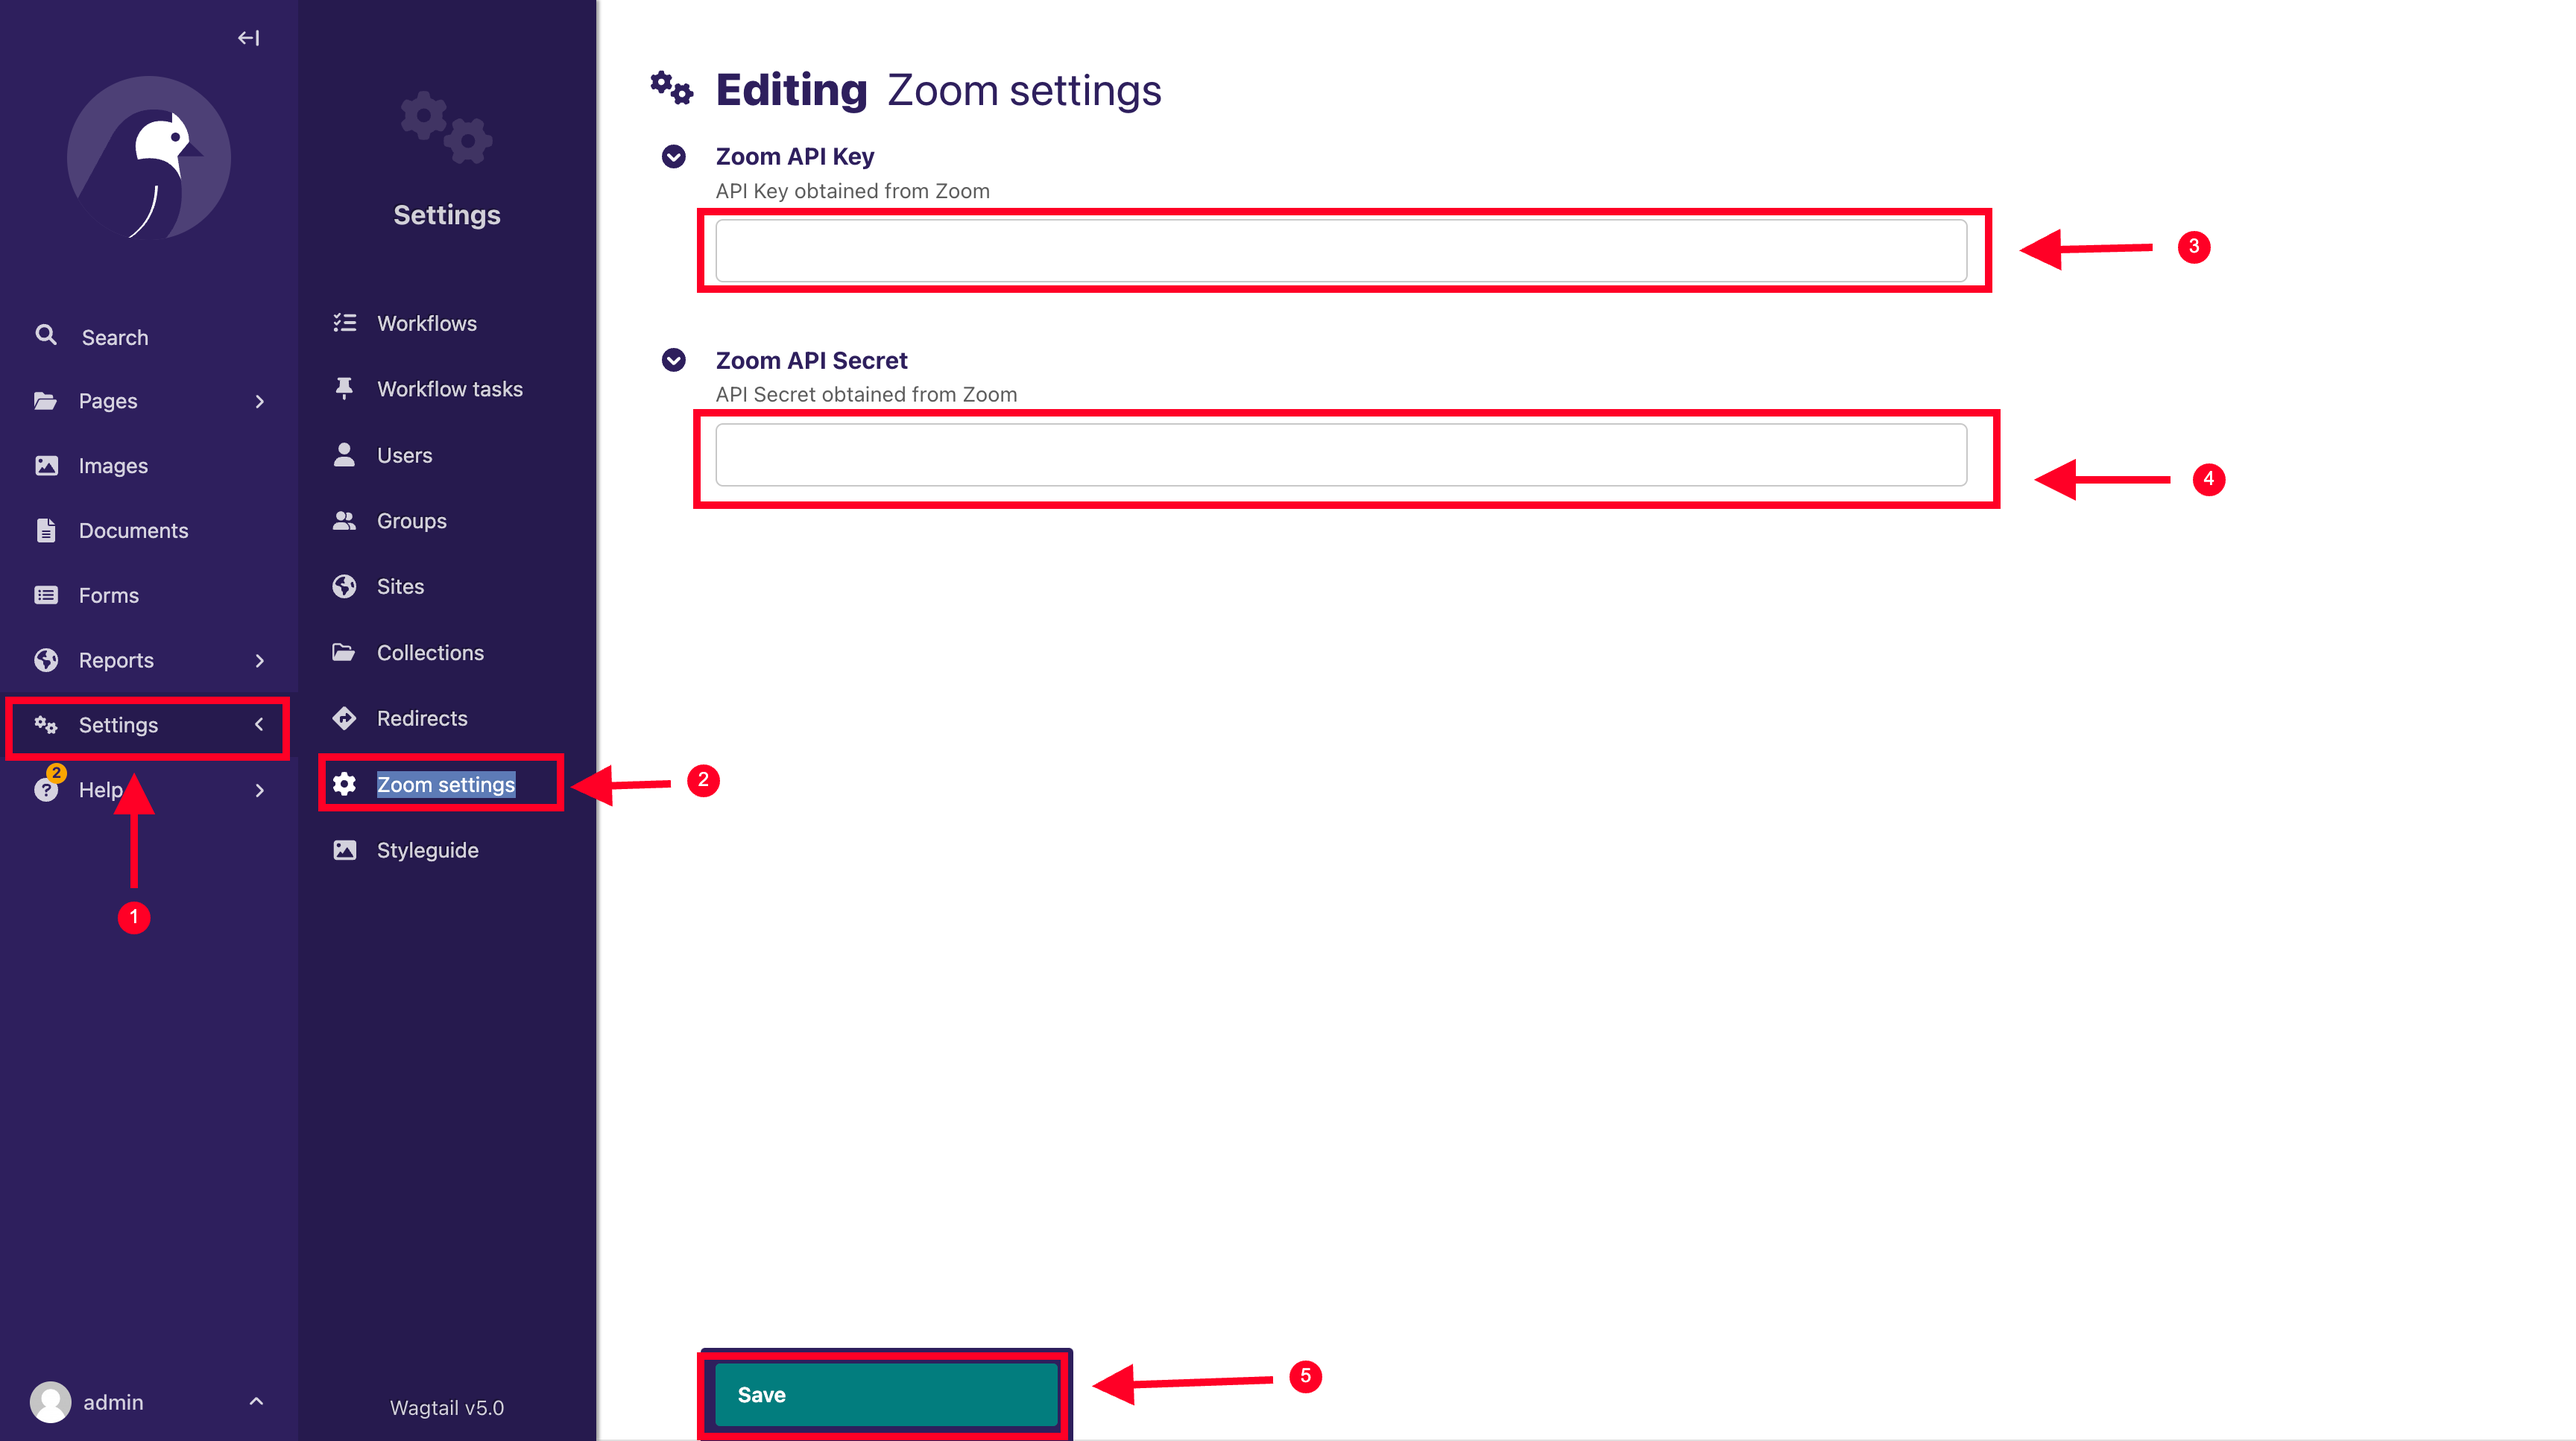
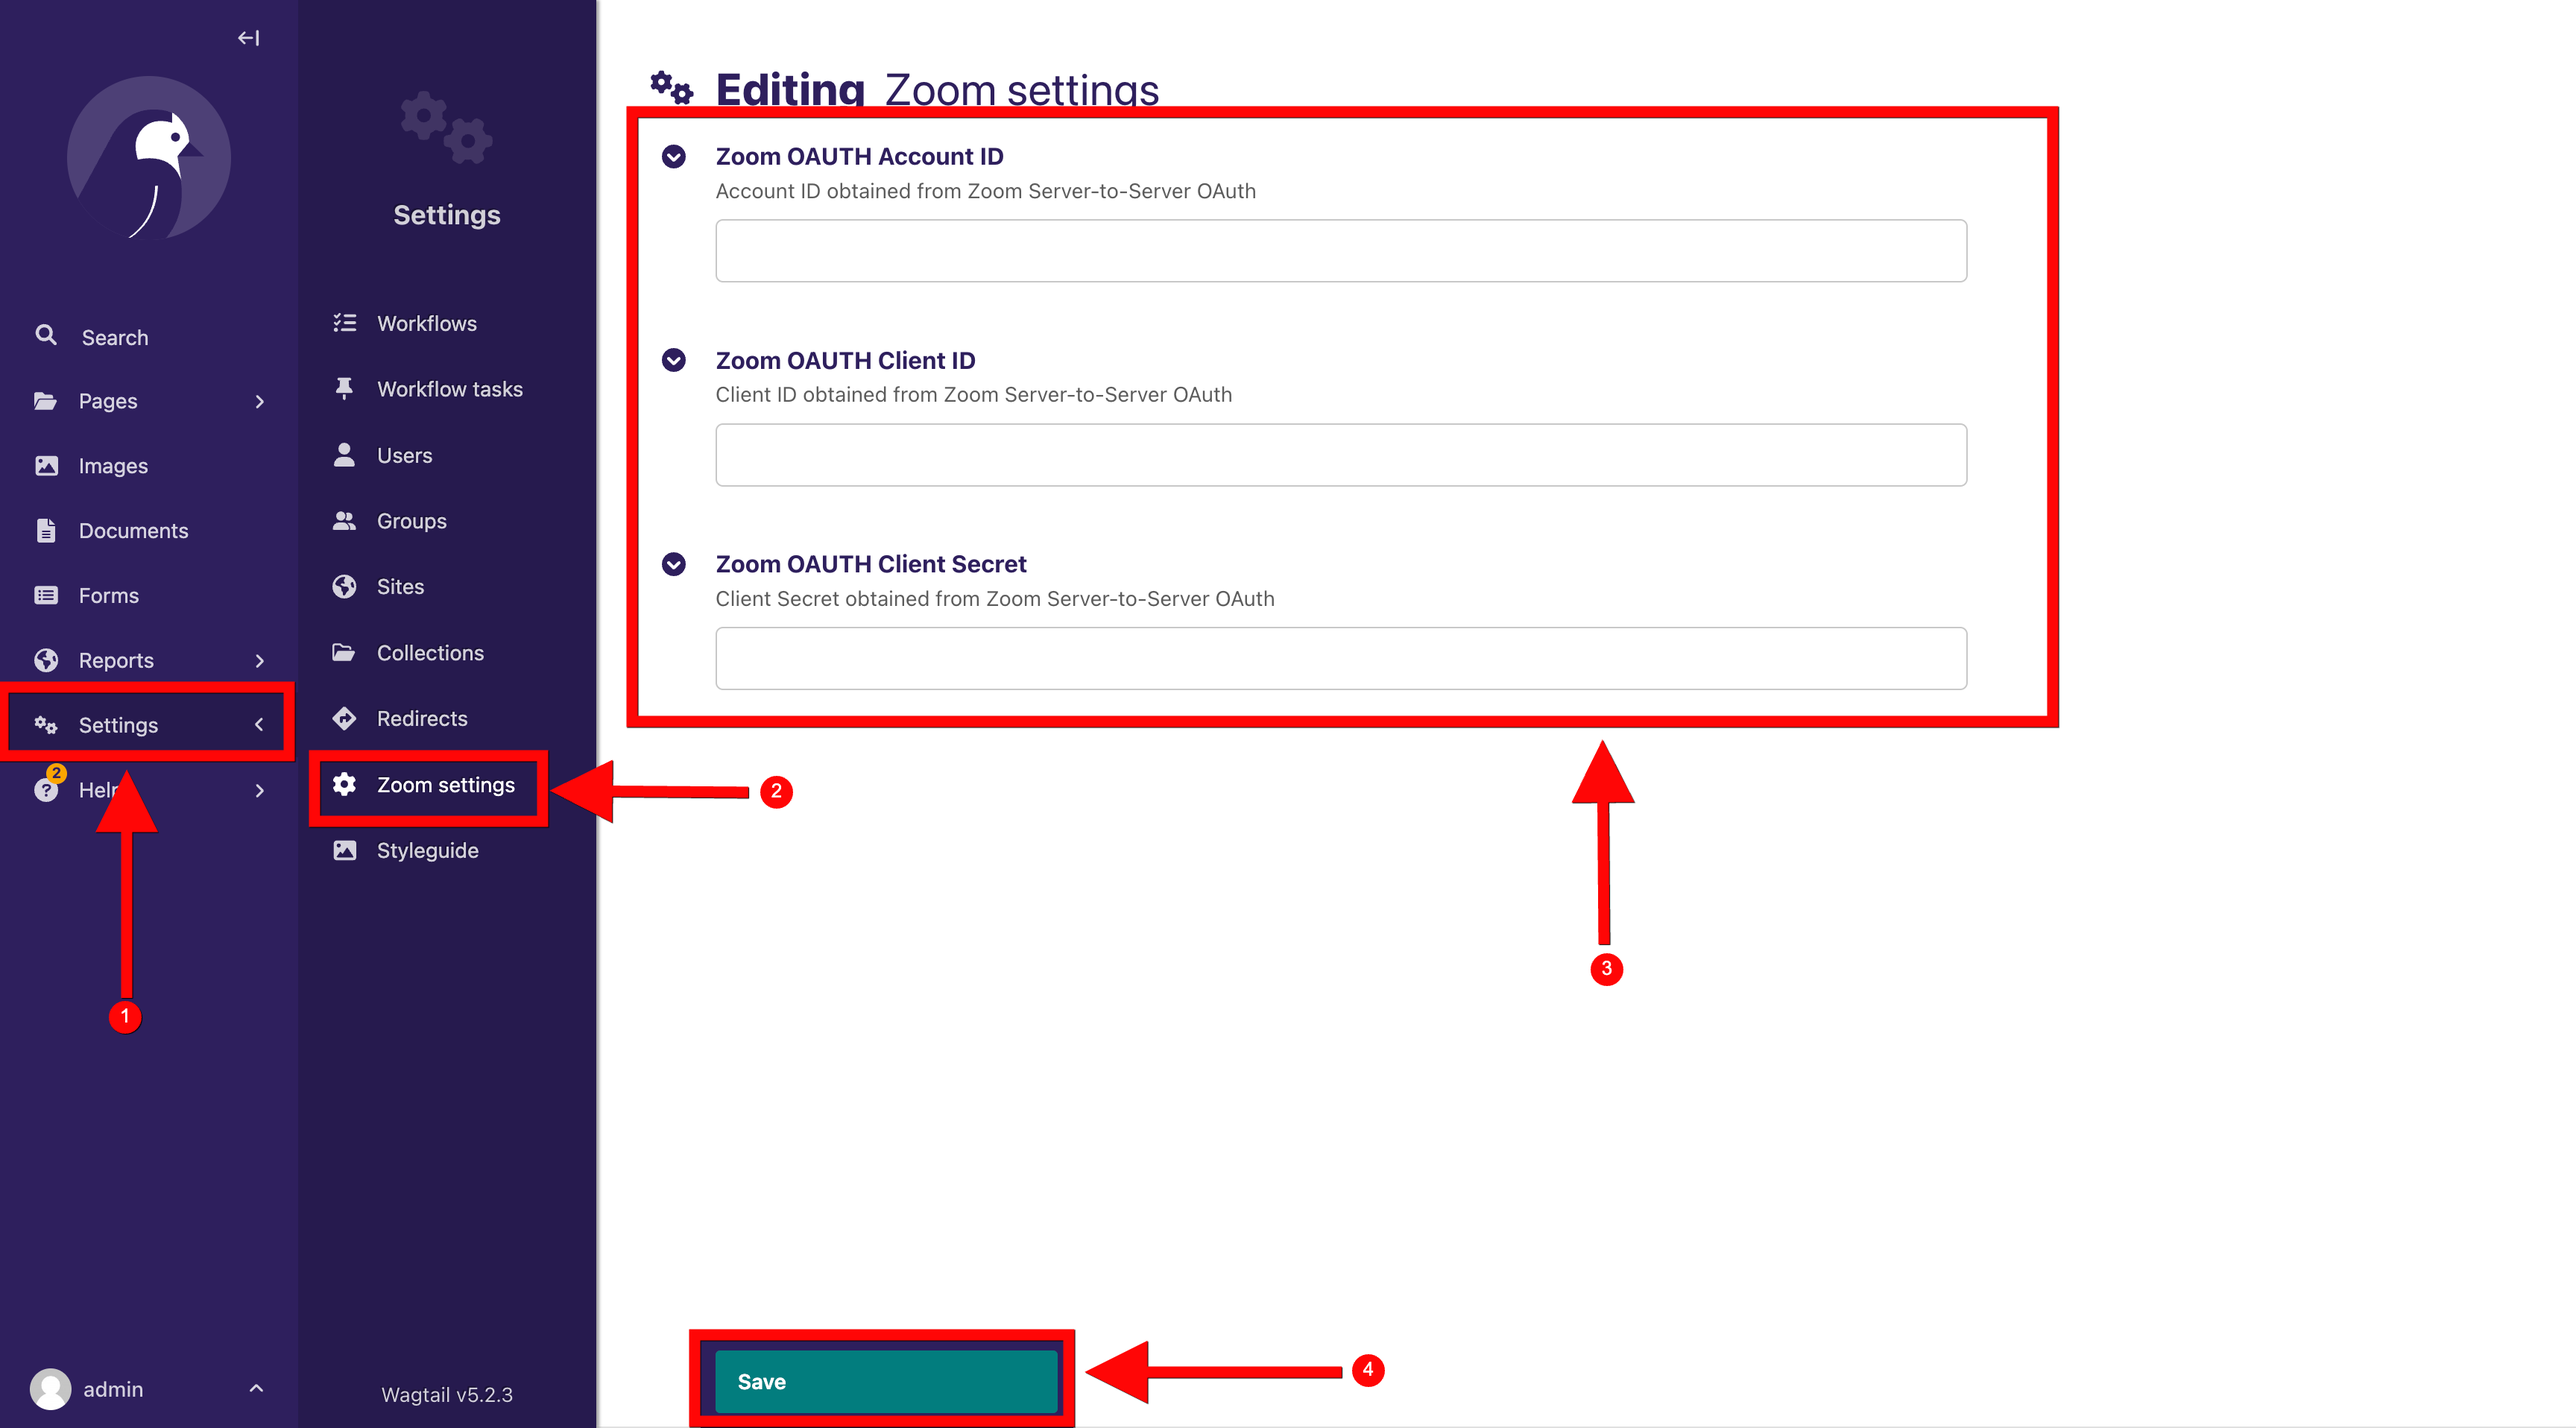
Update to use server-server oath authentication

diff --git a/wagtailzoom/templates/wagtailzoom/widgets/zoom_event_select_widget.html b/wagtailzoom/templates/wagtailzoom/widgets/zoom_event_select_widget.html
@@ -7,7 +7,7 @@
     {% for event in widget.selectable_events %}
         {% if event.id == widget.stored_event_id %} selected{% endif %}
         <option value="{{ event.id }}" {% if event.id|stringformat:"i" == widget.stored_event_id %} selected{% endif %}>
-            {{ event.topic }}
+            {{ event.event_type_label }} - {{ event.topic }}
         </option>
     {% endfor %}
 </select>

diff --git a/wagtailzoom/api.py b/wagtailzoom/api.py
@@ -1,12 +1,9 @@
-from datetime import datetime, timedelta
-import iso8601
+import base64
 
-import jwt
+import iso8601
 import requests
 
 from wagtailzoom.errors import ZoomApiCredentialsError
-
-JWT_EXP_DELTA_SECONDS = 60 * 2  # 2 minutes
 
 
 def get_created_time(d):
@@ -14,29 +11,29 @@ def get_created_time(d):
 
 
 class ZoomApi:
-    def __init__(self, api_key, api_secret):
+    def __init__(self, oauth_account_id, oauth_client_id, oauth_client_secret):
         self.is_active = False
         self.headers = {}
         self.base_url = "https://api.zoom.us/v2"
 
-        if not api_key:
-            raise ZoomApiCredentialsError(
-                "No Zoom API Key provided. Please set API Key from Zoom Settings under settings")
+        if not oauth_account_id and not oauth_client_id and not oauth_client_secret:
+            raise ZoomApiCredentialsError("Missing Zoom API OAUTH credentials")
 
-        if not api_secret:
-            raise ZoomApiCredentialsError(
-                "No Zoom API Secret provided. Please set API Secret from Zoom Settings under settings")
+        self.init_api(oauth_account_id, oauth_client_id, oauth_client_secret)
 
-        self.init_api(api_key, api_secret)
+    def init_api(self, oauth_account_id, oauth_client_id, oauth_client_secret):
+        auth_str = f"{oauth_client_id}:{oauth_client_secret}"
+        encoded_auth_str = base64.b64encode(auth_str.encode()).decode('utf-8')
 
-    def init_api(self, api_key, api_secret):
-        payload = {
-            'iss': api_key,
-            'exp': datetime.utcnow() + timedelta(seconds=JWT_EXP_DELTA_SECONDS)
-        }
+        r = requests.post(f'https://zoom.us/oauth/token?grant_type=account_credentials&account_id={oauth_account_id}',
+                          headers={'Authorization': f'Basic {encoded_auth_str}'})
 
-        jwt_token = jwt.encode(payload, api_secret)
-        self.headers["Authorization"] = "Bearer {}".format(jwt_token)
+        r.raise_for_status()
+
+        res = r.json()
+        access_token = res.get("access_token")
+
+        self.headers["Authorization"] = f"Bearer {access_token}"
 
         self.is_active = True
 
@@ -68,6 +65,7 @@ class ZoomApi:
 
             for index, meeting in enumerate(meetings):
                 meetings[index]["event_type"] = "meeting"
+                meetings[index]["event_type_label"] = "Meeting"
 
         return meetings
 
@@ -86,6 +84,7 @@ class ZoomApi:
 
             for index, webinar in enumerate(webinars):
                 webinars[index]["event_type"] = "webinar"
+                webinars[index]["event_type_label"] = "Webinar"
 
         return webinars
 

diff --git a/wagtailzoom/models.py b/wagtailzoom/models.py
@@ -15,24 +15,32 @@ from .widgets import ZoomEventSelectWidget
 
 @register_setting
 class ZoomSettings(BaseSiteSetting):
-    api_key = models.CharField(
+    oauth_account_id = models.CharField(
         max_length=256,
         null=True,
         blank=True,
-        verbose_name=_("Zoom API Key"),
-        help_text=_("API Key obtained from Zoom"),
+        verbose_name=_("Zoom OAUTH Account ID"),
+        help_text=_("Account ID obtained from Zoom Server-to-Server OAuth"),
     )
-    api_secret = models.CharField(
+    oauth_client_id = models.CharField(
         max_length=256,
         null=True,
         blank=True,
-        verbose_name=_("Zoom API Secret"),
-        help_text=_("API Secret obtained from Zoom"),
+        verbose_name=_("Zoom OAUTH Client ID"),
+        help_text=_("Client ID obtained from Zoom Server-to-Server OAuth"),
+    )
+    oauth_client_secret = models.CharField(
+        max_length=256,
+        null=True,
+        blank=True,
+        verbose_name=_("Zoom OAUTH Client Secret"),
+        help_text=_("Client Secret obtained from Zoom Server-to-Server OAuth"),
     )
 
     panels = [
-        FieldPanel("api_key"),
-        FieldPanel("api_secret"),
+        FieldPanel("oauth_account_id"),
+        FieldPanel("oauth_client_id"),
+        FieldPanel("oauth_client_secret"),
     ]
 
 
@@ -111,7 +119,8 @@ class AbstractZoomIntegrationForm(AbstractForm):
         if self.zoom_event_id and self.zoom_merge_fields:
             try:
                 zoom_settings = ZoomSettings.for_request(request)
-                zoom = ZoomApi(api_key=zoom_settings.api_key, api_secret=zoom_settings.api_secret)
+                zoom = ZoomApi(zoom_settings.oauth_account_id, zoom_settings.oauth_client_id,
+                               zoom_settings.oauth_client_secret)
 
                 rendered_dictionary = self.render_zoom_dictionary(
                     self.format_zoom_form_submission(kwargs['form']),

diff --git a/wagtailzoom/migrations/0002_remove_zoomsettings_api_key_and_more.py b/wagtailzoom/migrations/0002_remove_zoomsettings_api_key_and_more.py
@@ -1,0 +1,36 @@
+# Generated by Django 4.2.1 on 2024-04-19 11:18
+
+from django.db import migrations, models
+
+
+class Migration(migrations.Migration):
+
+    dependencies = [
+        ('wagtailzoom', '0001_initial'),
+    ]
+
+    operations = [
+        migrations.RemoveField(
+            model_name='zoomsettings',
+            name='api_key',
+        ),
+        migrations.RemoveField(
+            model_name='zoomsettings',
+            name='api_secret',
+        ),
+        migrations.AddField(
+            model_name='zoomsettings',
+            name='oauth_account_id',
+            field=models.CharField(blank=True, help_text='Account ID obtained from Zoom Server-to-Server OAuth', max_length=256, null=True, verbose_name='Zoom OAUTH Account ID'),
+        ),
+        migrations.AddField(
+            model_name='zoomsettings',
+            name='oauth_client_id',
+            field=models.CharField(blank=True, help_text='Client ID obtained from Zoom Server-to-Server OAuth', max_length=256, null=True, verbose_name='Zoom OAUTH Client ID'),
+        ),
+        migrations.AddField(
+            model_name='zoomsettings',
+            name='oauth_client_secret',
+            field=models.CharField(blank=True, help_text='Client Secret obtained from Zoom Server-to-Server OAuth', max_length=256, null=True, verbose_name='Zoom OAUTH Client Secret'),
+        ),
+    ]

diff --git a/wagtailzoom/views.py b/wagtailzoom/views.py
@@ -32,7 +32,8 @@ def zoom_integration_view(request, page_id):
         if event_id:
             try:
                 zoom_settings = ZoomSettings.for_request(request)
-                zoom_api = ZoomApi(api_key=zoom_settings.api_key, api_secret=zoom_settings.api_secret)
+                zoom_api = ZoomApi(zoom_settings.oauth_account_id, zoom_settings.oauth_client_id,
+                                   zoom_settings.oauth_client_secret)
 
                 if event_type == "meeting":
                     zoom_event = zoom_api.get_meeting(event_id)

diff --git a/wagtailzoom/widgets.py b/wagtailzoom/widgets.py
@@ -79,8 +79,8 @@ class ZoomEventSelectWidget(Input):
         current_site = Site.objects.get(is_default_site=True)
 
         zoom_settings = ZoomSettings.for_site(current_site)
-
-        api = ZoomApi(api_key=zoom_settings.api_key, api_secret=zoom_settings.api_secret)
+        api = ZoomApi(zoom_settings.oauth_account_id, zoom_settings.oauth_client_id,
+                      zoom_settings.oauth_client_secret)
         events = api.get_events()
 
         return events

diff --git a/README.md b/README.md
@@ -45,40 +45,60 @@ The steps below explain how to configure the Zoom settings, as shown on the scre
 
 1. Click on Settings
 2. Select Zoom Settings
-3. Add the Zoom API Key. See next section on how to obtain the API Key.
-4. Add the Zoom API Secret. See next section on how to obtain the API Secret.
+3. Add the Zoom OAUTH Account ID, OAUTH Client ID and OAUTH Client Secret . See next section on how to create and obtain
+   these credentials from Zoom.
 5. Save
 
-### Obtaining Zoom API Key and API Secret
+### Create a Server-to-Server OAuth app
 
-`Note`: The Zoom Account user that generates the API credentials should have the permissions to:
+The account administrator or a developer with permissions to create server-to-server OAuth apps can create these apps in
+an account.
 
-- Read and write meetings
-- Read and write webinars
+#### Prerequisites
 
-First, log into [marketplace.zoom.us](https://marketplace.zoom.us)
+- [A Zoom account](https://support.zoom.us/hc/en-us/articles/360034967471-Getting-started-guide-for-new-users)
+- [Permissions to view and edit server-to-server OAuth apps](https://developers.zoom.us/docs/internal-apps/#enable-the-server-to-server-oauth-role)
+- [Permissions for scopes that you will add to the app](https://developers.zoom.us/docs/internal-apps/#assign-permissions-to-access-scopes)
 
-![Create Zoom JWT App](screenshots/create_zoom_jwt_app.png)
+#### Steps to create a Server-to-Server OAuth app
 
-After logging into [marketplace.zoom.us](https://marketplace.zoom.us), the interface will appear similar to above
-screenshot
+1. Go to the Zoom App Marketplace. Click Develop in the dropdown menu in the top-right corner of the page and select
+   Build Server-to-Server App.
 
-Follow the steps below to create a JWT app, to get the API credentials:
+2. Add a name for your app and click Create.
 
-1. Go to the 'Develop' dropdown button right next to the manage button,
-2. Click 'Build App'
-3. On the 'Choose your app' type page, click `Create` from within the JWT box
+![Create Server-to-Server OAuth App](screenshots/create_app.webp)
 
-- A modal will appear to name your app — name your app and proceed.
+3. **App credentials**: View your account ID, client ID and client secret. You'll use these credentials to authenticate
+   with Zoom.
+4. **Information:** Add information about your app, such as a short description, company name, and developer contact
+   information (name and email address required for activation).
+5. **Feature:** Toggle whether you’d like to enable event subscriptions. If enabled, choose the event subscriptions
+   you'd like to use. See Using Zoom Webhooks for details.
+6. **Scopes:** Scopes define the API methods this app is allowed to call, and thus which information and capabilities
+   are available on Zoom. Scopes are restricted to specific resources like channels or files. If you submit your app to
+   Zoom, we will verify the need for all requested scopes against the features that your app has to offer at the time of
+   review. You should limit the scopes you request to only those needed by your app. See OAuth scopes to learn more. If
+   you have the role permission to add scopes, add any scopes that you’d like to enable.
 
-- On the next page, under Information, fill out a Company Name, Developer Name, and Developer Email.
+![Search Scopes](screenshots/search_scopes.webp)
 
-![Zoom JWT App Credentials](screenshots/zoom_api_credentials.png)
+Choose **Add Scopes** to search for and add scopes:
 
-1. Once completed filling company details, your API Key and Secret will be generated automatically under the App
-   Credentials tab
-2. Copy the API key, and add to the Zoom settings in the Wagtail Admin
-3. Copy the API Secret. and add to the Zoom Settings in the Wagtail Admin
+![Add Scopes](screenshots/add_scopes.webp)
+
+7. **Activation:** Your app should be activated. If you see errors that prevent activation, please address them. You
+   will not be able to generate an access token to make API calls unless your app is activated. If your app is
+   deactivated, existing tokens will no longer work.
+
+### Get app credentials
+
+**App credentials** are the client credentials, including the **account ID, client ID, and client secret**, which Zoom
+provides to app developers to access the Zoom platform. You can get these credentials for the detail page of your app in
+the Zoom App Marketplace.
+
+More information on how to get the app credentials can be
+found [here](https://developers.zoom.us/docs/internal-apps/create/)
 
 ### Integrating Zoom Meeting/Webinar registration to custom form pages
 
